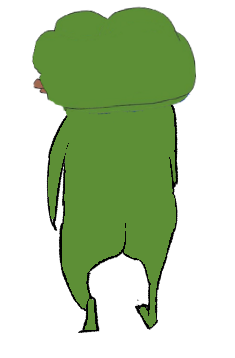
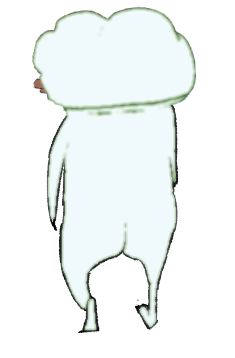
repaint job and removal of some logging

diff --git a/server/build/server/server_source/game_modules/battle/events.js b/server/build/server/server_source/game_modules/battle/events.js
@@ -49,8 +49,8 @@ var BattleEvent;
     }
     BattleEvent.Leave = Leave;
     function EndTurn(battle, unit) {
-        console.log(battle.id + ' end turn');
-        console.log(unit.id + 'unit id');
+        // console.log(battle.id + ' end turn')
+        // console.log(unit.id + 'unit id')
         // invalid battle
         if (battle.heap.get_selected_unit() == undefined)
             return false;
@@ -81,14 +81,14 @@ var BattleEvent;
      * @returns
      */
     function NewTurn(battle) {
-        console.log(battle.id + ' new turn');
+        // console.log(battle.id + ' new turn')
         let current_time = Date.now();
         battle.date_of_last_turn = current_time;
         let unit = battle.heap.get_selected_unit();
         if (unit == undefined) {
             return { responce: 'no_units_left' };
         }
-        console.log(unit.id + ' current unit');
+        // console.log(unit.id + ' current unit')
         alerts_1.Alerts.battle_event(battle, 'new_turn', unit.id, unit.position, unit.id, 0);
         let time_passed = unit.next_turn_after;
         battle.heap.update(time_passed);

diff --git a/server/server_source/game_modules/battle/events.ts b/server/server_source/game_modules/battle/events.ts
@@ -56,8 +56,8 @@ export namespace BattleEvent {
     }
 
     export function EndTurn(battle: Battle, unit: Unit) {
-        console.log(battle.id + ' end turn')
-        console.log(unit.id + 'unit id')
+        // console.log(battle.id + ' end turn')
+        // console.log(unit.id + 'unit id')
 
         // invalid battle
         if (battle.heap.get_selected_unit() == undefined) return false
@@ -94,7 +94,7 @@ export namespace BattleEvent {
      * @returns 
      */
     export function NewTurn(battle: Battle) {
-        console.log(battle.id + ' new turn')
+        // console.log(battle.id + ' new turn')
         let current_time = Date.now() as ms
         battle.date_of_last_turn = current_time
 
@@ -103,7 +103,7 @@ export namespace BattleEvent {
             return {responce: 'no_units_left'}
         }
 
-        console.log(unit.id + ' current unit')
+        // console.log(unit.id + ' current unit')
         Alerts.battle_event(battle, 'new_turn', unit.id, unit.position, unit.id, 0)
         let time_passed = unit.next_turn_after
         battle.heap.update(time_passed)

diff --git a/static/styles/tab_list.css b/static/styles/tab_list.css
@@ -237,10 +237,19 @@
     width: 500px;
     z-index: 10;
     overflow-y: scroll;
+    border-color: bisque;
+    border-width: 4px;
+    border-style: solid;
+    padding: 5px;
 }
 
 #character_greeting {
     display: contents;
+    
+    border-color: bisque;
+    border-width: 1px;
+    border-style: solid;
+    padding: 5px;
 }
 
 #available_perks > div {
